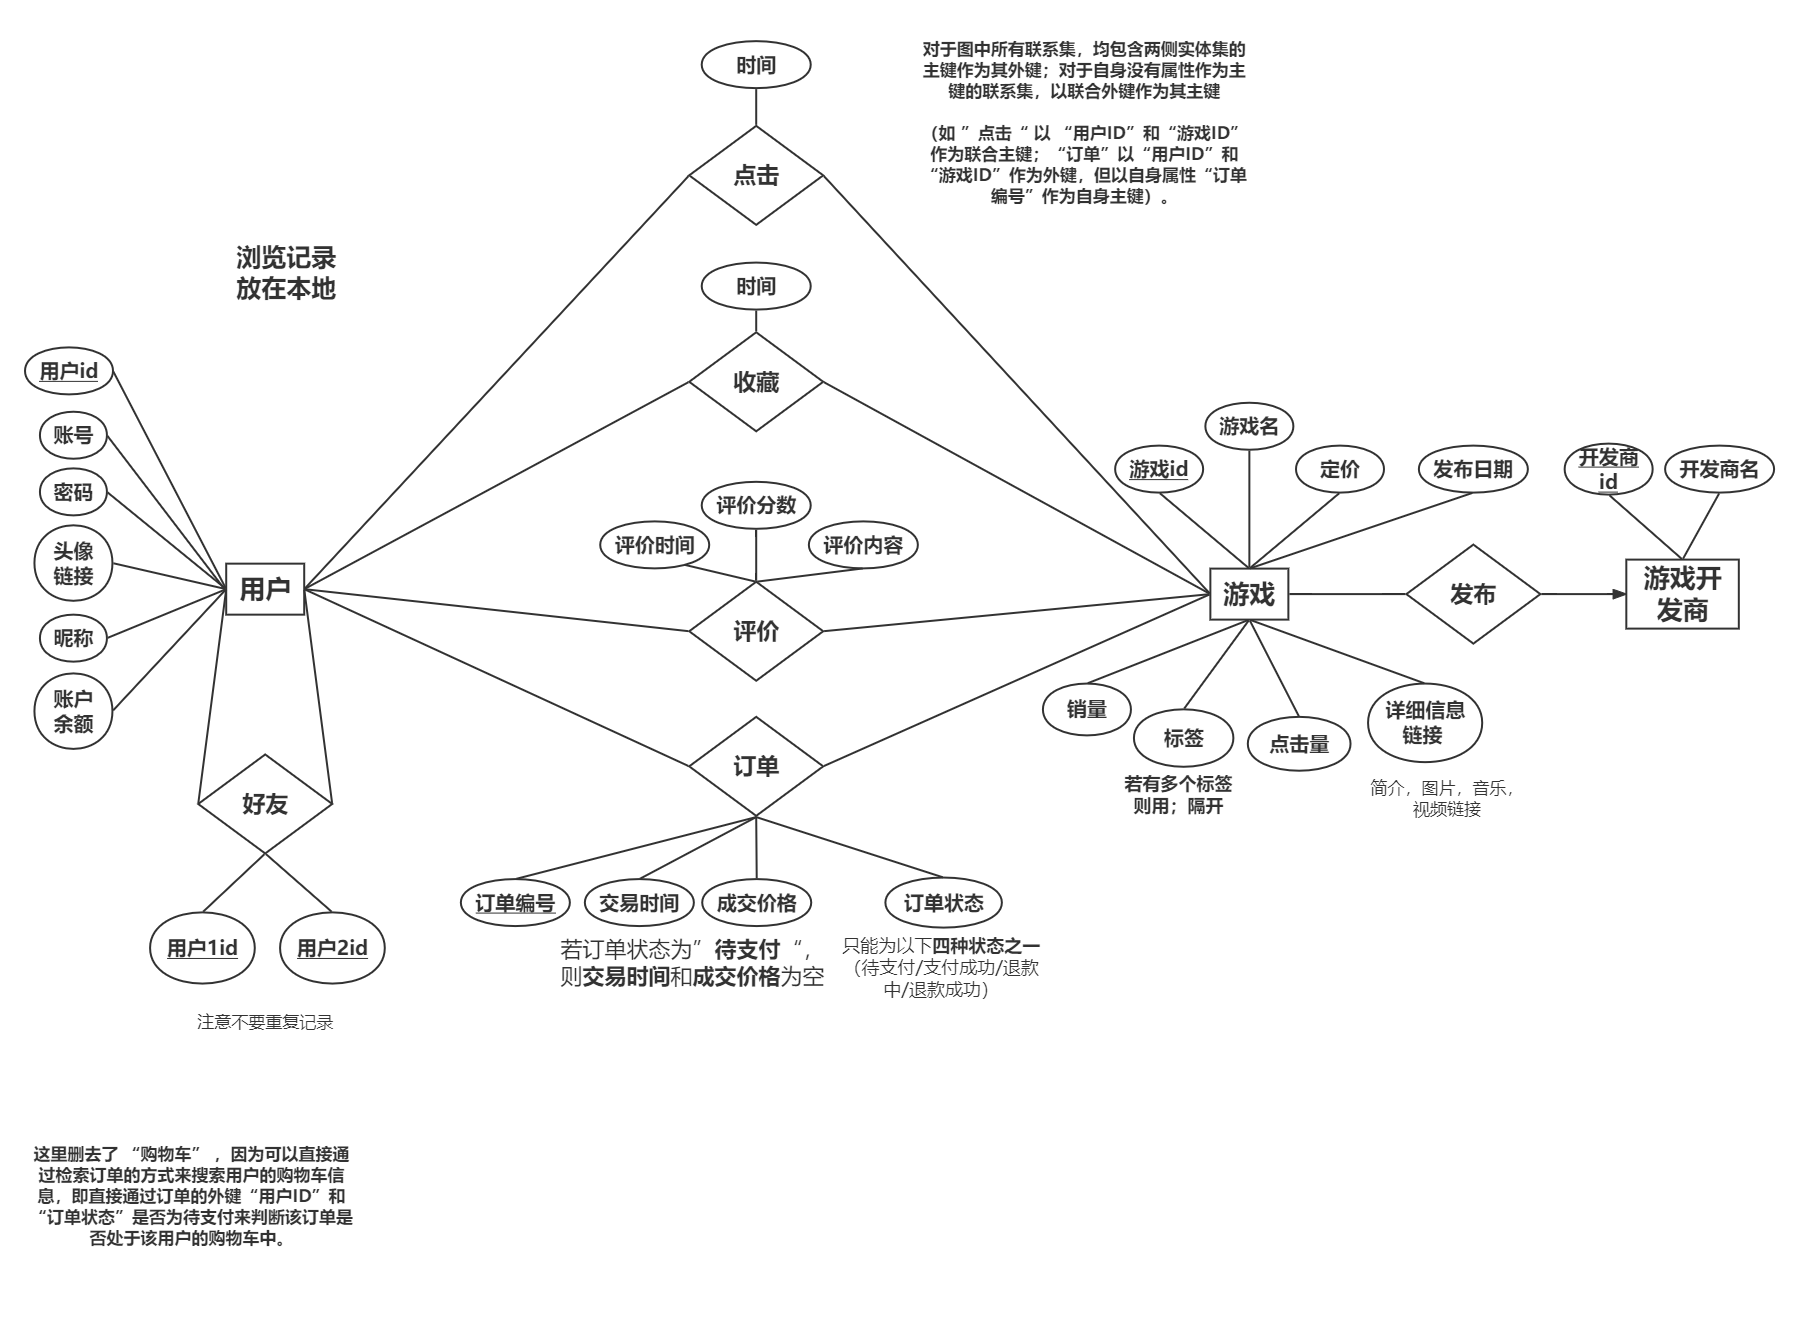
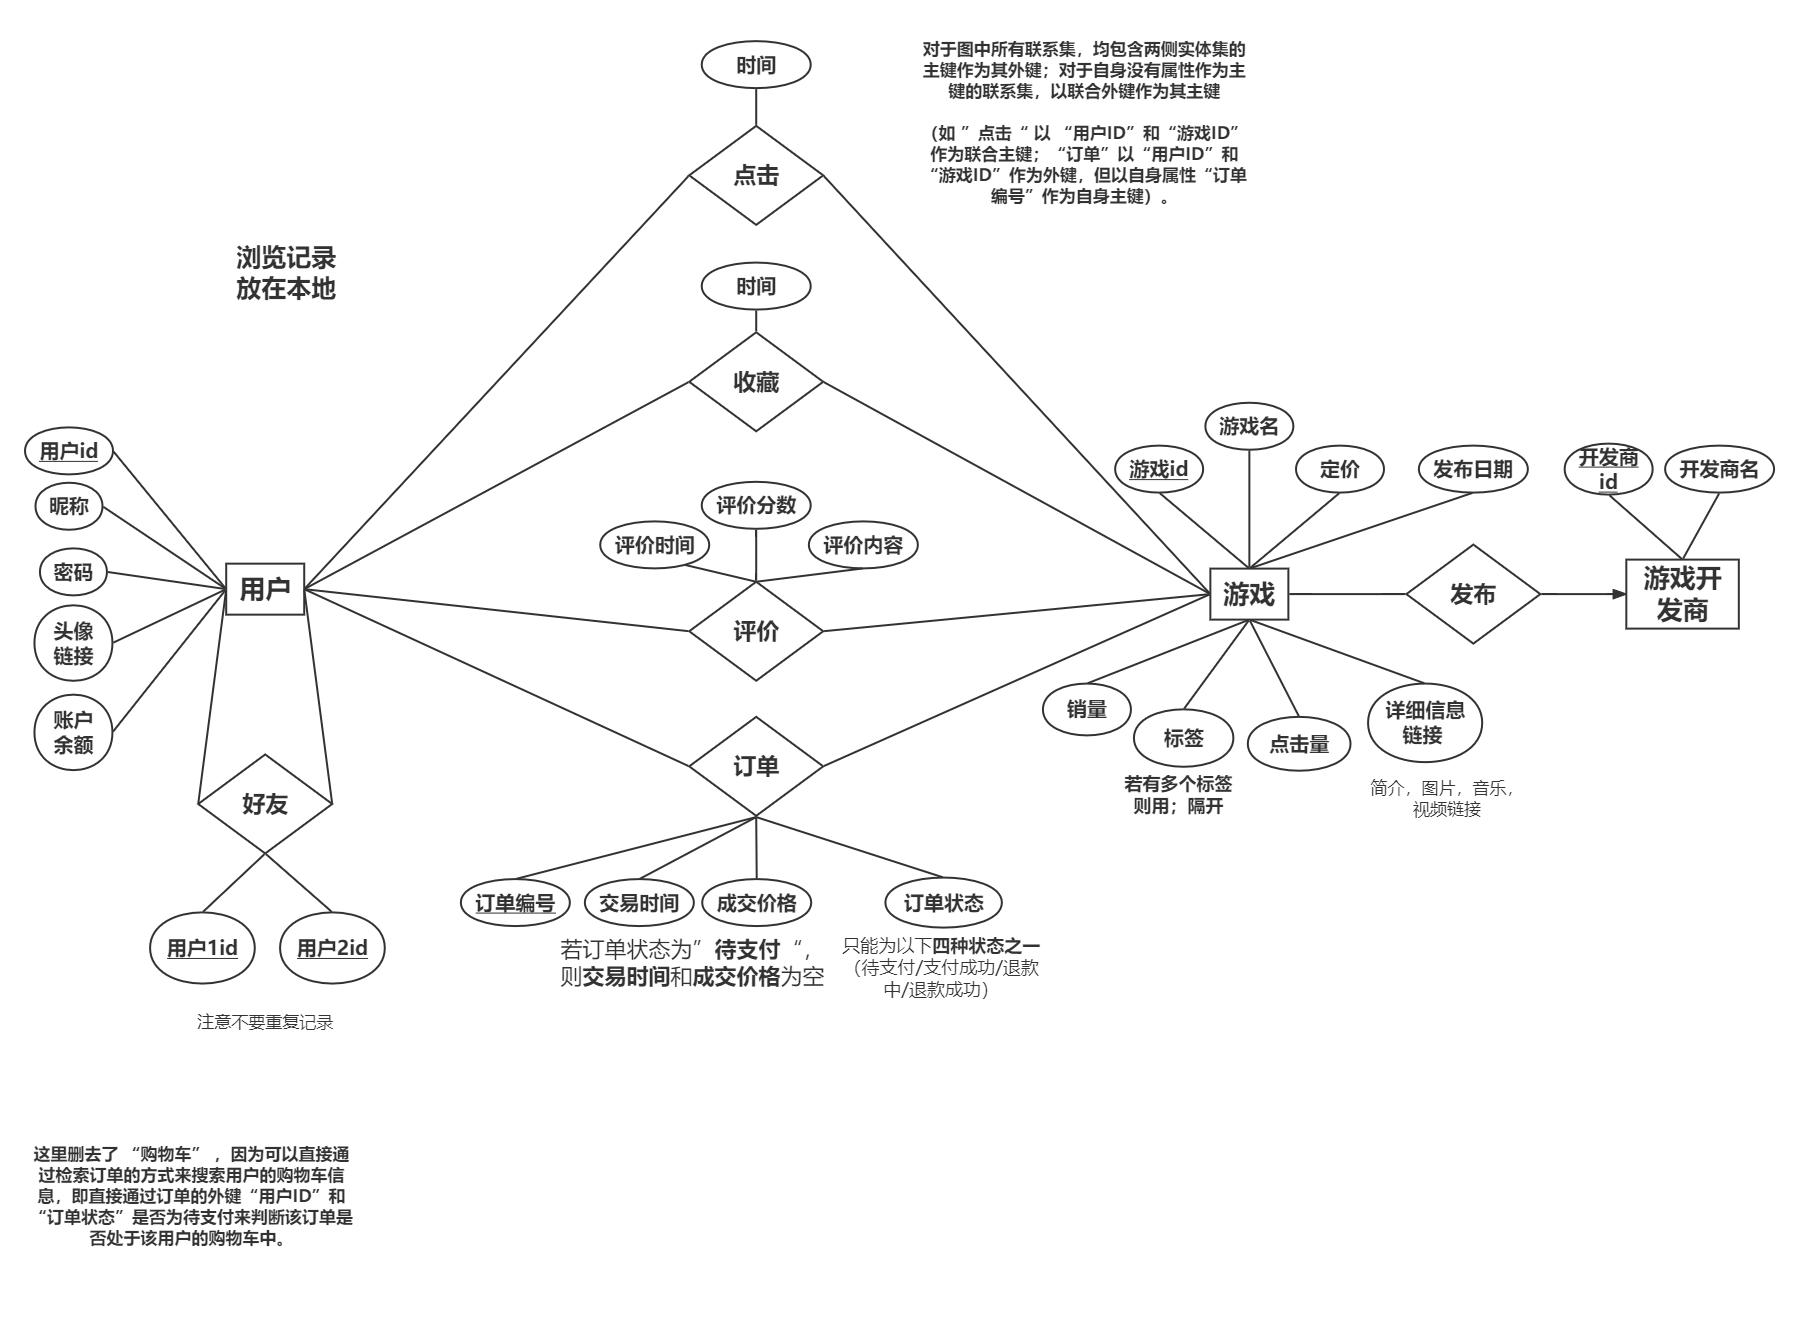
完成登录页面和购物车页面的编写

Changed region(s): [[0.0, 0.2487, 0.1245, 0.5906]]

diff --git a/miniprogram/app.js b/miniprogram/app.js
@@ -22,6 +22,7 @@ App({
   globalData:{
     phoneHeight:320,
     phoneWidth:568,
-    whRation:1
+    whRation:1,
+    User:''
   }
 });
